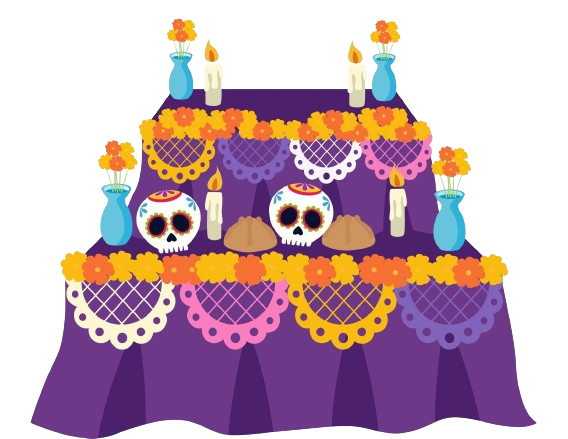
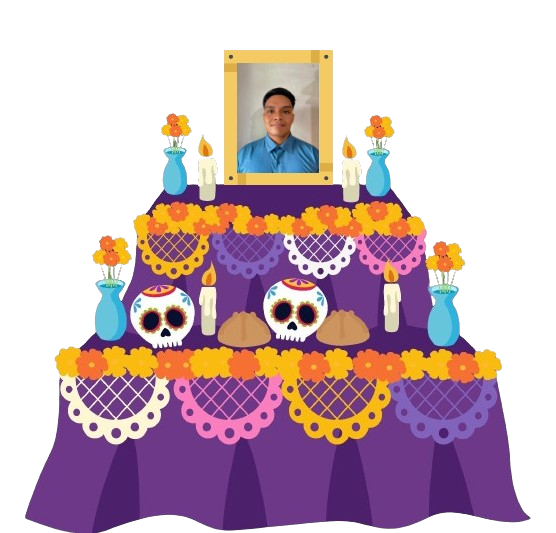
firts part of about me

diff --git a/src/components/About.js b/src/components/About.js
@@ -1,6 +1,7 @@
 import React, {useEffect, useState } from "react";
 import Papel from "../img/papel-picado.png";
 import Altar from "../img/altar.png"
+import profile from '../img/profile-pic.jpeg';
 import '../styles/about.css';
 
 
@@ -12,14 +13,14 @@ function About () {
         const handleScroll = () => {
             const scrolled = window.scrollY;
             // Adjust these values based on the height/spacing of your levels
-            if (scrolled < 200) {
-                setScale(1 - scrolled / 200);
+            if (scrolled < 130) {
+                setScale(1 + scrolled / 100);
                 setLevelVisible(0);
-            } else if (scrolled >= 200 && scrolled < 400) {
+            } else if (scrolled >= 130 && scrolled < 320) {
                 setLevelVisible(1);
-            } else if (scrolled >= 400 && scrolled < 600) {
+            } else if (scrolled >= 320 && scrolled < 520) {
                 setLevelVisible(2);
-            } else if (scrolled >= 600) {
+            } else if (scrolled >= 520) {
                 setLevelVisible(3);
             }
         };
@@ -29,10 +30,10 @@ function About () {
     }, []);
     return (
         <div>
-            <img className="papel" src={Papel} />
+            <img className="papel" src={Papel} alt="papel picado" />
             <div className="container-xxl">
                 <div className={`altar-level level-0 ${levelVisible === 0 ? 'visible' : 'hidden'}`}>
-                    <img  className="altar-img" src={Altar} style={{ transform: `scale(${scale})`, transition: 'transform 0.5s ease' }}/>
+                    <img alt="altar" className="altar-img" src={Altar} style={{ transform: `scale(${scale})`, transition: 'transform 0.5s ease' }}/>
                 </div>
                 <div className={`altar-level level-1 ${levelVisible === 1 ? 'visible' : 'hidden'}`}>
                     <h1 className="title">
@@ -40,14 +41,24 @@ function About () {
                         <span className="white-text">Enrique Ortiz </span>
                         <span className="red-color">Santa Cruz?</span>
                     </h1>
+                    <div className="d-flex justify-content-center ">
+                        <img src={profile} alt="Enrique's profile" className="profile-pic"/>
+                        <div className="line"></div>
+                        <div className="d-flex justify-content-center flex-column">
+                            <p className="text-google">Hello, I'm Andres Enrique Ortiz Santa Cruz, a <span className="key-words">software development</span> student who likes to create web and mobile applications.</p>
+                            <p className="text-google">When I'm not working I like to <span className="key-words">work out</span> at the gym, 
+                            <span className="key-words">explore</span> and <span className="key-words">learn</span> new things.</p>
+                        </div>
+                    </div>
                 </div>
                 <div className={`altar-level level-2 ${levelVisible === 2 ? 'visible' : 'hidden'}`}>
-                    nivel23
+                    
                 </div>
                 <div className={`altar-level level-3 ${levelVisible === 3 ? 'visible' : 'hidden'}`}>
                     nvierfrelfle
                 </div>
             </div>
+            
         </div>
     );
 }

diff --git a/src/styles/footer.css b/src/styles/footer.css
@@ -1,46 +1,15 @@
-footer {
-    background-color: #343a40;
-    padding: 2rem 0;
-    color: white;
-    text-align: center;
+.fixed-footer {
+    position: fixed; /* Fija la posición relativa a la ventana del navegador */
+    bottom: 0; /* Alinea en la parte inferior */
+    left: 0; /* Alinea a la izquierda */
+    width: 100%; /* Asegura que se extienda a lo ancho de la pantalla */
+    background: #FFF; /* Color de fondo, cambialo según tu diseño */
+    text-align: center; /* Centra el texto dentro del footer */
+    z-index: 1000; /* Asegura que el footer esté sobre otros elementos */
+    padding: 10px;
+    margin-bottom: -5px;
 }
 
-footer h5 {
-    margin-bottom: 1rem;
+.name {
+    color : #760bde;
 }
-
-footer p, footer a {
-    color: #ffffff;
-    text-decoration: none;
-}
-
-footer a:hover {
-    text-decoration: underline;
-}
-
-@media screen and (max-width: 450px) {
-    footer {
-        padding: 1rem 0; /* Reduce el padding */
-    }
-
-    footer p, footer a, footer h5 {
-        font-size: 0.875rem; /* Reduce el tamaño del texto */
-    }
-
-    footer .col-md-4 {
-        flex: 0 0 100%; /* Asegúrate de que las columnas ocupen el 100% del ancho */
-        max-width: 100%;
-    }
-}
-
-@media (min-width: 451px) {
-    .justify-content-center {
-        justify-content: center;
-    }
-
-    .justify-content-center .col-md-4 {
-        margin-left: 1rem; /* Ajusta el valor según sea necesario */
-        margin-right: 1rem; /* Ajusta el valor según sea necesario */
-    }
-}
-

diff --git a/src/styles/about.css b/src/styles/about.css
@@ -1,6 +1,6 @@
 .papel {
     width: 100%;
-    height: 300px;
+    height: 200px;
 }
 
 .green-color {
@@ -13,6 +13,7 @@
 
 .title {
     text-align: center;
+    margin-bottom: 20px;
     
 }
 .white-text {
@@ -29,19 +30,61 @@
     height: auto;
 }
 
+.profile-pic {
+    width: 40%;
+    height: auto;
+}
+
 .altar-level {
     transition: opacity 0.5s ease-in-out;
-    height: 100vh;
+    min-height: 100vh;
     opacity: 0;
     display: flex;
-    justify-content: center;
     align-items: center;
+    flex-direction: column;
 }
 
 .visible {
     opacity: 1;
 }
 
+.line {
+    background-color: #760bde;
+    height: auto;
+    width: 10px;
+    margin-left: 5px;
+    margin-right: 5px;
+}
+
 .hidden {
     display: none;
+}
+
+.text-google {
+    font-family: "Noto Sans", sans-serif;
+    font-optical-sizing: auto;
+    font-size: xx-large;
+    font-style: normal;
+    color: gray;
+    font-variation-settings: "wdth" 100;
+    text-align: justify;
+    text-justify: inter-word;
+}
+.container-xxl {
+    padding: 10px;
+}
+
+.key-words {
+    color: #000;
+}
+
+@media screen and (max-width: 450px) {
+    .line {
+        margin-top: 10px;
+        height: 3px;
+        width: 100%;
+    }
+    .text-google {
+        font-size: medium;
+    }
 }

diff --git a/src/components/Navbar.js b/src/components/Navbar.js
@@ -9,11 +9,11 @@ function CustomNavbar() {
   return (
     <Navbar expand="lg" className="bg-color navbar-100 fixed-top">
       <Container>
-        <Navbar.Brand as={NavLink} to="/" className="text-white text-google navbar-brand-small">Andres Enrique Ortiz Santa Cruz</Navbar.Brand>
+        <Navbar.Brand as={NavLink} to="/my-portfolio" className="text-white text-google navbar-brand-small">Andres Enrique Ortiz Santa Cruz</Navbar.Brand>
         <Navbar.Toggle aria-controls="basic-navbar-nav" />
         <Navbar.Collapse id="basic-navbar-nav">
           <Nav className="me-auto">
-            <Nav.Link as={NavLink} to="/" className="text-white text-google">Home</Nav.Link>
+            <Nav.Link as={NavLink} to="/my-portfolio" className="text-white text-google">Home</Nav.Link>
             <Nav.Link as={NavLink} to="/about" className="text-white text-google">About Me</Nav.Link>
             <Nav.Link as={NavLink} to="/skills" className="text-white text-google">Skills</Nav.Link>
             <Nav.Link as={NavLink} to="/experience" className="text-white text-google">Experience</Nav.Link>

diff --git a/src/components/Home.js b/src/components/Home.js
@@ -5,10 +5,10 @@ function Home() {
     return (
         <div>
             <div className='container-xxl'>
-                    <h1 className='text-google mt-5'>Hey, I'm <span className='name'>Enrique</span> ^^</h1>
+                    <h1 className='text-google mt-5'>Hey, I'm <span className='name'>Enrique</span> <span className='wave-emoji'>👋🏽</span></h1>
                     <p className='text-google introduction mt-4'>I am a Mexican student developer at the IUT in Orléans. I have done different projects using a variety of technologies and tools.</p>
                 <div className='d-flex justify-content-center mt-5 align-items-center'>
-                    <h2>Let me show you more <a className='reference-a'>about me</a></h2>
+                    <h2>Let me show you more <a className='reference-a' href='/about'>about me</a></h2>
                     <img className='img-home' src={imgHome} alt='Anime Software' />
                 </div>
 

diff --git a/src/styles/home.css b/src/styles/home.css
@@ -58,13 +58,19 @@
     text-decoration: none;
 }
 
-.fixed-footer {
-    position: fixed;
-    bottom: 0;
-    left: 0;
-    width: 100%;
-    background: white; /* Asegúrate de que el texto sea legible contra el fondo de la página */
-    text-align: center;
-    padding: 10px 0; /* Añade algo de relleno para que se vea bien */
-    box-shadow: 0 -2px 5px rgba(0,0,0,0.1); /* Opcional: añade una sombra para separar del contenido */
+@keyframes wave {
+    0% { transform: rotate(0deg); }
+    10% { transform: rotate(14deg); }
+    20% { transform: rotate(-8deg); }
+    30% { transform: rotate(14deg); }
+    40% { transform: rotate(-4deg); }
+    50% { transform: rotate(10deg); }
+    60% { transform: rotate(0deg); }
+    100% { transform: rotate(0deg); }
+}
+
+.wave-emoji {
+    display: inline-block;
+    animation: wave 1s ease-in-out infinite;
+    transform-origin: 70% 70%;
 }

diff --git a/src/components/Quetzalcoatl.js b/src/components/Quetzalcoatl.js
@@ -1,0 +1,22 @@
+import React, { useEffect } from 'react';
+import alebrijeImg from '../img/quetzalcoatl.png';
+import '../styles/quetzalcoatl.css';
+
+function Quetzalcoatl() {
+    useEffect(() => {
+        const interval = setInterval(() => {
+            const quetzalcoatl = document.getElementById('quetzalcoatl');
+            quetzalcoatl.classList.remove('animate');
+            void quetzalcoatl.offsetWidth; // Trigger reflow
+            quetzalcoatl.classList.add('animate');
+        }, 8000);  // Intervalo entre animaciones
+
+        return () => clearInterval(interval);
+    }, []);
+
+    return (
+        <img id="quetzalcoatl" src={alebrijeImg} alt="quetzalcoatl" className="quetzalcoatl" />
+    );
+}
+
+export default Quetzalcoatl;

diff --git a/public/index.html b/public/index.html
@@ -2,7 +2,7 @@
 <html lang="en">
   <head>
     <meta charset="utf-8" />
-    <link rel="icon" href="%PUBLIC_URL%/favicon.ico" />
+    <link rel="icon" href="%PUBLIC_URL%/portafolio.png" />
     <meta name="viewport" content="width=device-width, initial-scale=1" />
     <meta name="theme-color" content="#000000" />
     <meta
@@ -24,10 +24,9 @@
       work correctly both with client-side routing and a non-root public URL.
       Learn how to configure a non-root public URL by running `npm run build`.
     -->
-    <title>React App</title>
+    <title>Enrique's portfolio</title>
   </head>
   <body>
-    <noscript>You need to enable JavaScript to run this app.</noscript>
     <div id="root"></div>
     <!--
       This HTML file is a template.

diff --git a/src/styles/quetzalcoatl.css b/src/styles/quetzalcoatl.css
@@ -1,0 +1,13 @@
+.quetzalcoatl {
+    position: fixed;
+    bottom: 20px; /* Ajusta la posición vertical */
+    right: -100px; /* Comienza fuera de la pantalla a la derecha */
+    width: 100px; /* Ajusta el tamaño según sea necesario */
+    height: auto;
+    transition: transform 10s linear; /* Duración de la animación */
+    z-index: 9999;
+}
+
+.animate {
+    transform: translateX(calc(-100vw - 100px)) rotate(360deg); /* Mover hacia la izquierda y rotar */
+}

diff --git a/src/App.js b/src/App.js
@@ -14,7 +14,7 @@ function App() {
     <Router>
       <CustomNavbar />
       <Routes>
-        <Route path="/" exact element={<Home />} />
+        <Route path="/my-portfolio" exact element={<Home />} />
         <Route path="/about" element={<About />} />
         <Route path="/skills" element={<Skills />} />
         <Route path="/experience" element={<Experience />} />

diff --git a/src/components/Footer.js b/src/components/Footer.js
@@ -1,5 +1,5 @@
 import React from 'react';
-
+import '../styles/footer.css'
 function Footer (){
     return (
         <h2 className='name fixed-footer text-footer'>© 2024 Andres Enrique Ortiz. All rights reserved.</h2>
